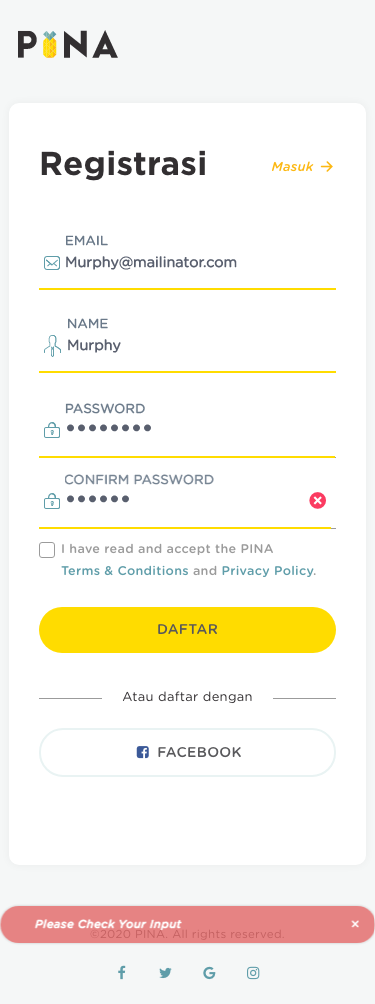
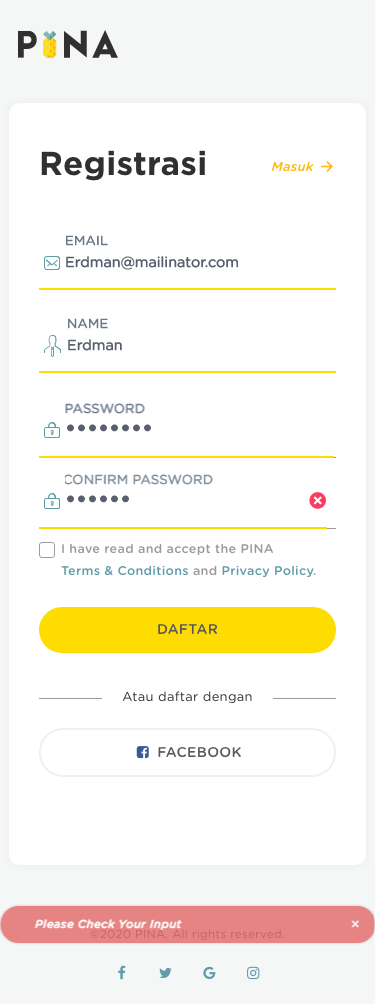
update

diff --git a/Renders/jest-stare/index.html b/Renders/jest-stare/index.html
@@ -142,18 +142,18 @@
     &quot;unmatched&quot;: 0,
     &quot;updated&quot;: 0
   },
-  &quot;startTime&quot;: 1578887352170,
+  &quot;startTime&quot;: 1579845051865,
   &quot;success&quot;: false,
   &quot;testResults&quot;: [
     {
-      &quot;failureMessage&quot;: &quot;\u001b[1m\u001b[31m  \u001b[1m● \u001b[1mUnit register › email with wrong format\u001b[39m\u001b[22m\n\n    \u001b[2mexpect(\u001b[22m\u001b[31mreceived\u001b[39m\u001b[2m).\u001b[22mtoMatch\u001b[2m(\u001b[22m\u001b[32mexpected\u001b[39m\u001b[2m)\u001b[22m\n\n    Expected substring: \u001b[32m\&quot;Register | PINA\&quot;\u001b[39m\n    Received string:    \u001b[31m\&quot;Login | PINA\&quot;\u001b[39m\n\u001b[2m\u001b[22m\n\u001b[2m    \u001b[0m \u001b[90m 87 | \u001b[39m      \u001b[0m\u001b[22m\n\u001b[2m    \u001b[0m \u001b[90m 88 | \u001b[39m        pageTitle \u001b[33m&#x3D;\u001b[39m await page\u001b[33m.\u001b[39mtitle()\u001b[33m;\u001b[39m\u001b[0m\u001b[22m\n\u001b[2m    \u001b[0m\u001b[31m\u001b[1m&gt;\u001b[2m\u001b[39m\u001b[90m 89 | \u001b[39m        await expect(pageTitle)\u001b[33m.\u001b[39mtoMatch(\u001b[32m&#39;Register | PINA&#39;\u001b[39m)\u001b[0m\u001b[22m\n\u001b[2m    \u001b[0m \u001b[90m    | \u001b[39m                                \u001b[31m\u001b[1m^\u001b[2m\u001b[39m\u001b[0m\u001b[22m\n\u001b[2m    \u001b[0m \u001b[90m 90 | \u001b[39m    }\u001b[33m,\u001b[39m\u001b[35m90000\u001b[39m)\u001b[0m\u001b[22m\n\u001b[2m    \u001b[0m \u001b[90m 91 | \u001b[39m\u001b[0m\u001b[22m\n\u001b[2m    \u001b[0m \u001b[90m 92 | \u001b[39m    test(\u001b[32m&#39;register without checklist TnC&#39;\u001b[39m\u001b[33m,\u001b[39m async() \u001b[33m&#x3D;&gt;\u001b[39m {\u001b[0m\u001b[22m\n\u001b[2m\u001b[22m\n\u001b[2m      \u001b[2mat Object.test (\u001b[2m\u001b[0m\u001b[36mtest&#x2F;pinaa&#x2F;e2e&#x2F;e2e.test.js\u001b[39m\u001b[0m\u001b[2m:89:33)\u001b[2m\u001b[22m\n\n\u001b[1m\u001b[31m  \u001b[1m● \u001b[1mUnit register › register without checklist TnC\u001b[39m\u001b[22m\n\n    \u001b[2mexpect(\u001b[22m\u001b[31mreceived\u001b[39m\u001b[2m).\u001b[22mtoMatch\u001b[2m(\u001b[22m\u001b[32mexpected\u001b[39m\u001b[2m)\u001b[22m\n\n    Expected substring: \u001b[32m\&quot;Register | PINA\&quot;\u001b[39m\n    Received string:    \u001b[31m\&quot;Login | PINA\&quot;\u001b[39m\n\u001b[2m\u001b[22m\n\u001b[2m    \u001b[0m \u001b[90m 108 | \u001b[39m  \u001b[0m\u001b[22m\n\u001b[2m    \u001b[0m \u001b[90m 109 | \u001b[39m        pageTitle \u001b[33m&#x3D;\u001b[39m await page\u001b[33m.\u001b[39mtitle()\u001b[33m;\u001b[39m\u001b[0m\u001b[22m\n\u001b[2m    \u001b[0m\u001b[31m\u001b[1m&gt;\u001b[2m\u001b[39m\u001b[90m 110 | \u001b[39m        await expect(pageTitle)\u001b[33m.\u001b[39mtoMatch(\u001b[32m&#39;Register | PINA&#39;\u001b[39m)\u001b[0m\u001b[22m\n\u001b[2m    \u001b[0m \u001b[90m     | \u001b[39m                                \u001b[31m\u001b[1m^\u001b[2m\u001b[39m\u001b[0m\u001b[22m\n\u001b[2m    \u001b[0m \u001b[90m 111 | \u001b[39m    }\u001b[33m,\u001b[39m\u001b[35m90000\u001b[39m)\u001b[0m\u001b[22m\n\u001b[2m    \u001b[0m \u001b[90m 112 | \u001b[39m\u001b[0m\u001b[22m\n\u001b[2m    \u001b[0m \u001b[90m 113 | \u001b[39m    test(\u001b[32m&#39;register with different confirm password&#39;\u001b[39m\u001b[33m,\u001b[39m async() \u001b[33m&#x3D;&gt;\u001b[39m {\u001b[0m\u001b[22m\n\u001b[2m\u001b[22m\n\u001b[2m      \u001b[2mat Object.test (\u001b[2m\u001b[0m\u001b[36mtest&#x2F;pinaa&#x2F;e2e&#x2F;e2e.test.js\u001b[39m\u001b[0m\u001b[2m:110:33)\u001b[2m\u001b[22m\n\n\u001b[1m\u001b[31m  \u001b[1m● \u001b[1mUnit register › register with different confirm password\u001b[39m\u001b[22m\n\n    \u001b[2mexpect(\u001b[22m\u001b[31mreceived\u001b[39m\u001b[2m).\u001b[22mtoMatch\u001b[2m(\u001b[22m\u001b[32mexpected\u001b[39m\u001b[2m)\u001b[22m\n\n    Expected substring: \u001b[32m\&quot;Register | PINA\&quot;\u001b[39m\n    Received string:    \u001b[31m\&quot;Login | PINA\&quot;\u001b[39m\n\u001b[2m\u001b[22m\n\u001b[2m    \u001b[0m \u001b[90m 129 | \u001b[39m       \u001b[0m\u001b[22m\n\u001b[2m    \u001b[0m \u001b[90m 130 | \u001b[39m        pageTitle \u001b[33m&#x3D;\u001b[39m await page\u001b[33m.\u001b[39mtitle()\u001b[33m;\u001b[39m\u001b[0m\u001b[22m\n\u001b[2m    \u001b[0m\u001b[31m\u001b[1m&gt;\u001b[2m\u001b[39m\u001b[90m 131 | \u001b[39m        await expect(pageTitle)\u001b[33m.\u001b[39mtoMatch(\u001b[32m&#39;Register | PINA&#39;\u001b[39m)\u001b[0m\u001b[22m\n\u001b[2m    \u001b[0m \u001b[90m     | \u001b[39m                                \u001b[31m\u001b[1m^\u001b[2m\u001b[39m\u001b[0m\u001b[22m\n\u001b[2m    \u001b[0m \u001b[90m 132 | \u001b[39m    }\u001b[33m,\u001b[39m\u001b[35m90000\u001b[39m)\u001b[0m\u001b[22m\n\u001b[2m    \u001b[0m \u001b[90m 133 | \u001b[39m\u001b[0m\u001b[22m\n\u001b[2m    \u001b[0m \u001b[90m 134 | \u001b[39m    test(\u001b[32m&#39;register without fill the form fields&#39;\u001b[39m\u001b[33m,\u001b[39m async() \u001b[33m&#x3D;&gt;\u001b[39m {\u001b[0m\u001b[22m\n\u001b[2m\u001b[22m\n\u001b[2m      \u001b[2mat Object.test (\u001b[2m\u001b[0m\u001b[36mtest&#x2F;pinaa&#x2F;e2e&#x2F;e2e.test.js\u001b[39m\u001b[0m\u001b[2m:131:33)\u001b[2m\u001b[22m\n\n\u001b[1m\u001b[31m  \u001b[1m● \u001b[1mUnit register › register without fill the form fields\u001b[39m\u001b[22m\n\n    \u001b[2mexpect(\u001b[22m\u001b[31mreceived\u001b[39m\u001b[2m).\u001b[22mtoMatch\u001b[2m(\u001b[22m\u001b[32mexpected\u001b[39m\u001b[2m)\u001b[22m\n\n    Expected substring: \u001b[32m\&quot;Register | PINA\&quot;\u001b[39m\n    Received string:    \u001b[31m\&quot;Login | PINA\&quot;\u001b[39m\n\u001b[2m\u001b[22m\n\u001b[2m    \u001b[0m \u001b[90m 146 | \u001b[39m     \u001b[0m\u001b[22m\n\u001b[2m    \u001b[0m \u001b[90m 147 | \u001b[39m        pageTitle \u001b[33m&#x3D;\u001b[39m await page\u001b[33m.\u001b[39mtitle()\u001b[33m;\u001b[39m\u001b[0m\u001b[22m\n\u001b[2m    \u001b[0m\u001b[31m\u001b[1m&gt;\u001b[2m\u001b[39m\u001b[90m 148 | \u001b[39m        await expect(pageTitle)\u001b[33m.\u001b[39mtoMatch(\u001b[32m&#39;Register | PINA&#39;\u001b[39m)\u001b[0m\u001b[22m\n\u001b[2m    \u001b[0m \u001b[90m     | \u001b[39m                                \u001b[31m\u001b[1m^\u001b[2m\u001b[39m\u001b[0m\u001b[22m\n\u001b[2m    \u001b[0m \u001b[90m 149 | \u001b[39m    }\u001b[33m,\u001b[39m\u001b[35m90000\u001b[39m)\u001b[0m\u001b[22m\n\u001b[2m    \u001b[0m \u001b[90m 150 | \u001b[39m\u001b[0m\u001b[22m\n\u001b[2m    \u001b[0m \u001b[90m 151 | \u001b[39m    test(\u001b[32m&#39;duplicate the register&#39;\u001b[39m\u001b[33m,\u001b[39m async() \u001b[33m&#x3D;&gt;\u001b[39m {  \u001b[0m\u001b[22m\n\u001b[2m\u001b[22m\n\u001b[2m      \u001b[2mat Object.test (\u001b[2m\u001b[0m\u001b[36mtest&#x2F;pinaa&#x2F;e2e&#x2F;e2e.test.js\u001b[39m\u001b[0m\u001b[2m:148:33)\u001b[2m\u001b[22m\n\n\u001b[1m\u001b[31m  \u001b[1m● \u001b[1mUnit register › duplicate the register\u001b[39m\u001b[22m\n\n    \u001b[2mexpect(\u001b[22m\u001b[31mreceived\u001b[39m\u001b[2m).\u001b[22mtoMatch\u001b[2m(\u001b[22m\u001b[32mexpected\u001b[39m\u001b[2m)\u001b[22m\n\n    Expected substring: \u001b[32m\&quot;Registrasi | PINA\&quot;\u001b[39m\n    Received string:    \u001b[31m\&quot;Login | PINA\&quot;\u001b[39m\n\u001b[2m\u001b[22m\n\u001b[2m    \u001b[0m \u001b[90m 167 | \u001b[39m        })\u001b[0m\u001b[22m\n\u001b[2m    \u001b[0m \u001b[90m 168 | \u001b[39m        pageTitle \u001b[33m&#x3D;\u001b[39m await page\u001b[33m.\u001b[39mtitle()\u001b[33m;\u001b[39m\u001b[0m\u001b[22m\n\u001b[2m    \u001b[0m\u001b[31m\u001b[1m&gt;\u001b[2m\u001b[39m\u001b[90m 169 | \u001b[39m        await expect(pageTitle)\u001b[33m.\u001b[39mtoMatch(\u001b[32m&#39;Registrasi | PINA&#39;\u001b[39m)\u001b[0m\u001b[22m\n\u001b[2m    \u001b[0m \u001b[90m     | \u001b[39m                                \u001b[31m\u001b[1m^\u001b[2m\u001b[39m\u001b[0m\u001b[22m\n\u001b[2m    \u001b[0m \u001b[90m 170 | \u001b[39m    }\u001b[33m,\u001b[39m\u001b[35m90000\u001b[39m)\u001b[0m\u001b[22m\n\u001b[2m    \u001b[0m \u001b[90m 171 | \u001b[39m\u001b[0m\u001b[22m\n\u001b[2m    \u001b[0m \u001b[90m 172 | \u001b[39m    test(\u001b[32m&#39;login success&#39;\u001b[39m\u001b[33m,\u001b[39m async() \u001b[33m&#x3D;&gt;\u001b[39m {\u001b[0m\u001b[22m\n\u001b[2m\u001b[22m\n\u001b[2m      \u001b[2mat Object.test (\u001b[2m\u001b[0m\u001b[36mtest&#x2F;pinaa&#x2F;e2e&#x2F;e2e.test.js\u001b[39m\u001b[0m\u001b[2m:169:33)\u001b[2m\u001b[22m\n&quot;,
+      &quot;failureMessage&quot;: &quot;\u001b[1m\u001b[31m  \u001b[1m● \u001b[1mUnit register › email with wrong format\u001b[39m\u001b[22m\n\n    \u001b[2mexpect(\u001b[22m\u001b[31mreceived\u001b[39m\u001b[2m).\u001b[22mtoMatch\u001b[2m(\u001b[22m\u001b[32mexpected\u001b[39m\u001b[2m)\u001b[22m\n\n    Expected substring: \u001b[32m\&quot;Register | PINA\&quot;\u001b[39m\n    Received string:    \u001b[31m\&quot;Login | PINA\&quot;\u001b[39m\n\u001b[2m\u001b[22m\n\u001b[2m    \u001b[0m \u001b[90m 88 | \u001b[39m      \u001b[0m\u001b[22m\n\u001b[2m    \u001b[0m \u001b[90m 89 | \u001b[39m        pageTitle \u001b[33m&#x3D;\u001b[39m await page\u001b[33m.\u001b[39mtitle()\u001b[33m;\u001b[39m\u001b[0m\u001b[22m\n\u001b[2m    \u001b[0m\u001b[31m\u001b[1m&gt;\u001b[2m\u001b[39m\u001b[90m 90 | \u001b[39m        await expect(pageTitle)\u001b[33m.\u001b[39mtoMatch(\u001b[32m&#39;Register | PINA&#39;\u001b[39m)\u001b[0m\u001b[22m\n\u001b[2m    \u001b[0m \u001b[90m    | \u001b[39m                                \u001b[31m\u001b[1m^\u001b[2m\u001b[39m\u001b[0m\u001b[22m\n\u001b[2m    \u001b[0m \u001b[90m 91 | \u001b[39m    }\u001b[33m,\u001b[39m\u001b[35m90000\u001b[39m)\u001b[0m\u001b[22m\n\u001b[2m    \u001b[0m \u001b[90m 92 | \u001b[39m\u001b[0m\u001b[22m\n\u001b[2m    \u001b[0m \u001b[90m 93 | \u001b[39m    test(\u001b[32m&#39;register without checklist TnC&#39;\u001b[39m\u001b[33m,\u001b[39m async() \u001b[33m&#x3D;&gt;\u001b[39m {\u001b[0m\u001b[22m\n\u001b[2m\u001b[22m\n\u001b[2m      \u001b[2mat Object.test (\u001b[2m\u001b[0m\u001b[36mtest&#x2F;pinaa&#x2F;e2e&#x2F;e2e.test.js\u001b[39m\u001b[0m\u001b[2m:90:33)\u001b[2m\u001b[22m\n\n\u001b[1m\u001b[31m  \u001b[1m● \u001b[1mUnit register › register without checklist TnC\u001b[39m\u001b[22m\n\n    \u001b[2mexpect(\u001b[22m\u001b[31mreceived\u001b[39m\u001b[2m).\u001b[22mtoMatch\u001b[2m(\u001b[22m\u001b[32mexpected\u001b[39m\u001b[2m)\u001b[22m\n\n    Expected substring: \u001b[32m\&quot;Register | PINA\&quot;\u001b[39m\n    Received string:    \u001b[31m\&quot;Login | PINA\&quot;\u001b[39m\n\u001b[2m\u001b[22m\n\u001b[2m    \u001b[0m \u001b[90m 109 | \u001b[39m  \u001b[0m\u001b[22m\n\u001b[2m    \u001b[0m \u001b[90m 110 | \u001b[39m        pageTitle \u001b[33m&#x3D;\u001b[39m await page\u001b[33m.\u001b[39mtitle()\u001b[33m;\u001b[39m\u001b[0m\u001b[22m\n\u001b[2m    \u001b[0m\u001b[31m\u001b[1m&gt;\u001b[2m\u001b[39m\u001b[90m 111 | \u001b[39m        await expect(pageTitle)\u001b[33m.\u001b[39mtoMatch(\u001b[32m&#39;Register | PINA&#39;\u001b[39m)\u001b[0m\u001b[22m\n\u001b[2m    \u001b[0m \u001b[90m     | \u001b[39m                                \u001b[31m\u001b[1m^\u001b[2m\u001b[39m\u001b[0m\u001b[22m\n\u001b[2m    \u001b[0m \u001b[90m 112 | \u001b[39m    }\u001b[33m,\u001b[39m\u001b[35m90000\u001b[39m)\u001b[0m\u001b[22m\n\u001b[2m    \u001b[0m \u001b[90m 113 | \u001b[39m\u001b[0m\u001b[22m\n\u001b[2m    \u001b[0m \u001b[90m 114 | \u001b[39m    test(\u001b[32m&#39;register with different confirm password&#39;\u001b[39m\u001b[33m,\u001b[39m async() \u001b[33m&#x3D;&gt;\u001b[39m {\u001b[0m\u001b[22m\n\u001b[2m\u001b[22m\n\u001b[2m      \u001b[2mat Object.test (\u001b[2m\u001b[0m\u001b[36mtest&#x2F;pinaa&#x2F;e2e&#x2F;e2e.test.js\u001b[39m\u001b[0m\u001b[2m:111:33)\u001b[2m\u001b[22m\n\n\u001b[1m\u001b[31m  \u001b[1m● \u001b[1mUnit register › register with different confirm password\u001b[39m\u001b[22m\n\n    \u001b[2mexpect(\u001b[22m\u001b[31mreceived\u001b[39m\u001b[2m).\u001b[22mtoMatch\u001b[2m(\u001b[22m\u001b[32mexpected\u001b[39m\u001b[2m)\u001b[22m\n\n    Expected substring: \u001b[32m\&quot;Register | PINA\&quot;\u001b[39m\n    Received string:    \u001b[31m\&quot;Login | PINA\&quot;\u001b[39m\n\u001b[2m\u001b[22m\n\u001b[2m    \u001b[0m \u001b[90m 130 | \u001b[39m       \u001b[0m\u001b[22m\n\u001b[2m    \u001b[0m \u001b[90m 131 | \u001b[39m        pageTitle \u001b[33m&#x3D;\u001b[39m await page\u001b[33m.\u001b[39mtitle()\u001b[33m;\u001b[39m\u001b[0m\u001b[22m\n\u001b[2m    \u001b[0m\u001b[31m\u001b[1m&gt;\u001b[2m\u001b[39m\u001b[90m 132 | \u001b[39m        await expect(pageTitle)\u001b[33m.\u001b[39mtoMatch(\u001b[32m&#39;Register | PINA&#39;\u001b[39m)\u001b[0m\u001b[22m\n\u001b[2m    \u001b[0m \u001b[90m     | \u001b[39m                                \u001b[31m\u001b[1m^\u001b[2m\u001b[39m\u001b[0m\u001b[22m\n\u001b[2m    \u001b[0m \u001b[90m 133 | \u001b[39m    }\u001b[33m,\u001b[39m\u001b[35m90000\u001b[39m)\u001b[0m\u001b[22m\n\u001b[2m    \u001b[0m \u001b[90m 134 | \u001b[39m\u001b[0m\u001b[22m\n\u001b[2m    \u001b[0m \u001b[90m 135 | \u001b[39m    test(\u001b[32m&#39;register without fill the form fields&#39;\u001b[39m\u001b[33m,\u001b[39m async() \u001b[33m&#x3D;&gt;\u001b[39m {\u001b[0m\u001b[22m\n\u001b[2m\u001b[22m\n\u001b[2m      \u001b[2mat Object.test (\u001b[2m\u001b[0m\u001b[36mtest&#x2F;pinaa&#x2F;e2e&#x2F;e2e.test.js\u001b[39m\u001b[0m\u001b[2m:132:33)\u001b[2m\u001b[22m\n\n\u001b[1m\u001b[31m  \u001b[1m● \u001b[1mUnit register › register without fill the form fields\u001b[39m\u001b[22m\n\n    \u001b[2mexpect(\u001b[22m\u001b[31mreceived\u001b[39m\u001b[2m).\u001b[22mtoMatch\u001b[2m(\u001b[22m\u001b[32mexpected\u001b[39m\u001b[2m)\u001b[22m\n\n    Expected substring: \u001b[32m\&quot;Register | PINA\&quot;\u001b[39m\n    Received string:    \u001b[31m\&quot;Login | PINA\&quot;\u001b[39m\n\u001b[2m\u001b[22m\n\u001b[2m    \u001b[0m \u001b[90m 147 | \u001b[39m     \u001b[0m\u001b[22m\n\u001b[2m    \u001b[0m \u001b[90m 148 | \u001b[39m        pageTitle \u001b[33m&#x3D;\u001b[39m await page\u001b[33m.\u001b[39mtitle()\u001b[33m;\u001b[39m\u001b[0m\u001b[22m\n\u001b[2m    \u001b[0m\u001b[31m\u001b[1m&gt;\u001b[2m\u001b[39m\u001b[90m 149 | \u001b[39m        await expect(pageTitle)\u001b[33m.\u001b[39mtoMatch(\u001b[32m&#39;Register | PINA&#39;\u001b[39m)\u001b[0m\u001b[22m\n\u001b[2m    \u001b[0m \u001b[90m     | \u001b[39m                                \u001b[31m\u001b[1m^\u001b[2m\u001b[39m\u001b[0m\u001b[22m\n\u001b[2m    \u001b[0m \u001b[90m 150 | \u001b[39m    }\u001b[33m,\u001b[39m\u001b[35m90000\u001b[39m)\u001b[0m\u001b[22m\n\u001b[2m    \u001b[0m \u001b[90m 151 | \u001b[39m\u001b[0m\u001b[22m\n\u001b[2m    \u001b[0m \u001b[90m 152 | \u001b[39m    test(\u001b[32m&#39;duplicate the register&#39;\u001b[39m\u001b[33m,\u001b[39m async() \u001b[33m&#x3D;&gt;\u001b[39m {  \u001b[0m\u001b[22m\n\u001b[2m\u001b[22m\n\u001b[2m      \u001b[2mat Object.test (\u001b[2m\u001b[0m\u001b[36mtest&#x2F;pinaa&#x2F;e2e&#x2F;e2e.test.js\u001b[39m\u001b[0m\u001b[2m:149:33)\u001b[2m\u001b[22m\n\n\u001b[1m\u001b[31m  \u001b[1m● \u001b[1mUnit register › duplicate the register\u001b[39m\u001b[22m\n\n    \u001b[2mexpect(\u001b[22m\u001b[31mreceived\u001b[39m\u001b[2m).\u001b[22mtoMatch\u001b[2m(\u001b[22m\u001b[32mexpected\u001b[39m\u001b[2m)\u001b[22m\n\n    Expected substring: \u001b[32m\&quot;Registrasi | PINA\&quot;\u001b[39m\n    Received string:    \u001b[31m\&quot;Login | PINA\&quot;\u001b[39m\n\u001b[2m\u001b[22m\n\u001b[2m    \u001b[0m \u001b[90m 168 | \u001b[39m        })\u001b[0m\u001b[22m\n\u001b[2m    \u001b[0m \u001b[90m 169 | \u001b[39m        pageTitle \u001b[33m&#x3D;\u001b[39m await page\u001b[33m.\u001b[39mtitle()\u001b[33m;\u001b[39m\u001b[0m\u001b[22m\n\u001b[2m    \u001b[0m\u001b[31m\u001b[1m&gt;\u001b[2m\u001b[39m\u001b[90m 170 | \u001b[39m        await expect(pageTitle)\u001b[33m.\u001b[39mtoMatch(\u001b[32m&#39;Registrasi | PINA&#39;\u001b[39m)\u001b[0m\u001b[22m\n\u001b[2m    \u001b[0m \u001b[90m     | \u001b[39m                                \u001b[31m\u001b[1m^\u001b[2m\u001b[39m\u001b[0m\u001b[22m\n\u001b[2m    \u001b[0m \u001b[90m 171 | \u001b[39m    }\u001b[33m,\u001b[39m\u001b[35m90000\u001b[39m)\u001b[0m\u001b[22m\n\u001b[2m    \u001b[0m \u001b[90m 172 | \u001b[39m\u001b[0m\u001b[22m\n\u001b[2m    \u001b[0m \u001b[90m 173 | \u001b[39m    test(\u001b[32m&#39;login success&#39;\u001b[39m\u001b[33m,\u001b[39m async() \u001b[33m&#x3D;&gt;\u001b[39m {\u001b[0m\u001b[22m\n\u001b[2m\u001b[22m\n\u001b[2m      \u001b[2mat Object.test (\u001b[2m\u001b[0m\u001b[36mtest&#x2F;pinaa&#x2F;e2e&#x2F;e2e.test.js\u001b[39m\u001b[0m\u001b[2m:170:33)\u001b[2m\u001b[22m\n&quot;,
       &quot;numFailingTests&quot;: 5,
       &quot;numPassingTests&quot;: 4,
       &quot;numPendingTests&quot;: 0,
       &quot;numTodoTests&quot;: 0,
       &quot;perfStats&quot;: {
-        &quot;end&quot;: 1578887409828,
-        &quot;start&quot;: 1578887355001
+        &quot;end&quot;: 1579845158371,
+        &quot;start&quot;: 1579845056206
       },
       &quot;snapshot&quot;: {
         &quot;added&quot;: 0,
@@ -170,7 +170,7 @@
           &quot;ancestorTitles&quot;: [
             &quot;Unit register&quot;
           ],
-          &quot;duration&quot;: 3615,
+          &quot;duration&quot;: 11734,
           &quot;failureMessages&quot;: [],
           &quot;fullName&quot;: &quot;Unit register register success&quot;,
           &quot;location&quot;: null,
@@ -182,9 +182,9 @@
           &quot;ancestorTitles&quot;: [
             &quot;Unit register&quot;
           ],
-          &quot;duration&quot;: 2337,
+          &quot;duration&quot;: 6411,
           &quot;failureMessages&quot;: [
-            &quot;Error: \u001b[2mexpect(\u001b[22m\u001b[31mreceived\u001b[39m\u001b[2m).\u001b[22mtoMatch\u001b[2m(\u001b[22m\u001b[32mexpected\u001b[39m\u001b[2m)\u001b[22m\n\nExpected substring: \u001b[32m\&quot;Register | PINA\&quot;\u001b[39m\nReceived string:    \u001b[31m\&quot;Login | PINA\&quot;\u001b[39m\n    at Object.test (&#x2F;Users&#x2F;fajri&#x2F;Documents&#x2F;auto&#x2F;ppt&#x2F;test&#x2F;pinaa&#x2F;e2e&#x2F;e2e.test.js:89:33)\n    at process._tickCallback (internal&#x2F;process&#x2F;next_tick.js:68:7)&quot;
+            &quot;Error: \u001b[2mexpect(\u001b[22m\u001b[31mreceived\u001b[39m\u001b[2m).\u001b[22mtoMatch\u001b[2m(\u001b[22m\u001b[32mexpected\u001b[39m\u001b[2m)\u001b[22m\n\nExpected substring: \u001b[32m\&quot;Register | PINA\&quot;\u001b[39m\nReceived string:    \u001b[31m\&quot;Login | PINA\&quot;\u001b[39m\n    at Object.test (&#x2F;Users&#x2F;fajri&#x2F;Documents&#x2F;auto&#x2F;ppt&#x2F;test&#x2F;pinaa&#x2F;e2e&#x2F;e2e.test.js:90:33)\n    at process._tickCallback (internal&#x2F;process&#x2F;next_tick.js:68:7)&quot;
           ],
           &quot;fullName&quot;: &quot;Unit register email with wrong format&quot;,
           &quot;location&quot;: null,
@@ -196,9 +196,9 @@
           &quot;ancestorTitles&quot;: [
             &quot;Unit register&quot;
           ],
-          &quot;duration&quot;: 3299,
+          &quot;duration&quot;: 7328,
           &quot;failureMessages&quot;: [
-            &quot;Error: \u001b[2mexpect(\u001b[22m\u001b[31mreceived\u001b[39m\u001b[2m).\u001b[22mtoMatch\u001b[2m(\u001b[22m\u001b[32mexpected\u001b[39m\u001b[2m)\u001b[22m\n\nExpected substring: \u001b[32m\&quot;Register | PINA\&quot;\u001b[39m\nReceived string:    \u001b[31m\&quot;Login | PINA\&quot;\u001b[39m\n    at Object.test (&#x2F;Users&#x2F;fajri&#x2F;Documents&#x2F;auto&#x2F;ppt&#x2F;test&#x2F;pinaa&#x2F;e2e&#x2F;e2e.test.js:110:33)\n    at process._tickCallback (internal&#x2F;process&#x2F;next_tick.js:68:7)&quot;
+            &quot;Error: \u001b[2mexpect(\u001b[22m\u001b[31mreceived\u001b[39m\u001b[2m).\u001b[22mtoMatch\u001b[2m(\u001b[22m\u001b[32mexpected\u001b[39m\u001b[2m)\u001b[22m\n\nExpected substring: \u001b[32m\&quot;Register | PINA\&quot;\u001b[39m\nReceived string:    \u001b[31m\&quot;Login | PINA\&quot;\u001b[39m\n    at Object.test (&#x2F;Users&#x2F;fajri&#x2F;Documents&#x2F;auto&#x2F;ppt&#x2F;test&#x2F;pinaa&#x2F;e2e&#x2F;e2e.test.js:111:33)\n    at process._tickCallback (internal&#x2F;process&#x2F;next_tick.js:68:7)&quot;
           ],
           &quot;fullName&quot;: &quot;Unit register register without checklist TnC&quot;,
           &quot;location&quot;: null,
@@ -210,9 +210,9 @@
           &quot;ancestorTitles&quot;: [
             &quot;Unit register&quot;
           ],
-          &quot;duration&quot;: 3282,
+          &quot;duration&quot;: 8043,
           &quot;failureMessages&quot;: [
-            &quot;Error: \u001b[2mexpect(\u001b[22m\u001b[31mreceived\u001b[39m\u001b[2m).\u001b[22mtoMatch\u001b[2m(\u001b[22m\u001b[32mexpected\u001b[39m\u001b[2m)\u001b[22m\n\nExpected substring: \u001b[32m\&quot;Register | PINA\&quot;\u001b[39m\nReceived string:    \u001b[31m\&quot;Login | PINA\&quot;\u001b[39m\n    at Object.test (&#x2F;Users&#x2F;fajri&#x2F;Documents&#x2F;auto&#x2F;ppt&#x2F;test&#x2F;pinaa&#x2F;e2e&#x2F;e2e.test.js:131:33)\n    at process._tickCallback (internal&#x2F;process&#x2F;next_tick.js:68:7)&quot;
+            &quot;Error: \u001b[2mexpect(\u001b[22m\u001b[31mreceived\u001b[39m\u001b[2m).\u001b[22mtoMatch\u001b[2m(\u001b[22m\u001b[32mexpected\u001b[39m\u001b[2m)\u001b[22m\n\nExpected substring: \u001b[32m\&quot;Register | PINA\&quot;\u001b[39m\nReceived string:    \u001b[31m\&quot;Login | PINA\&quot;\u001b[39m\n    at Object.test (&#x2F;Users&#x2F;fajri&#x2F;Documents&#x2F;auto&#x2F;ppt&#x2F;test&#x2F;pinaa&#x2F;e2e&#x2F;e2e.test.js:132:33)\n    at process._tickCallback (internal&#x2F;process&#x2F;next_tick.js:68:7)&quot;
           ],
           &quot;fullName&quot;: &quot;Unit register register with different confirm password&quot;,
           &quot;location&quot;: null,
@@ -224,9 +224,9 @@
           &quot;ancestorTitles&quot;: [
             &quot;Unit register&quot;
           ],
-          &quot;duration&quot;: 2881,
+          &quot;duration&quot;: 8497,
           &quot;failureMessages&quot;: [
-            &quot;Error: \u001b[2mexpect(\u001b[22m\u001b[31mreceived\u001b[39m\u001b[2m).\u001b[22mtoMatch\u001b[2m(\u001b[22m\u001b[32mexpected\u001b[39m\u001b[2m)\u001b[22m\n\nExpected substring: \u001b[32m\&quot;Register | PINA\&quot;\u001b[39m\nReceived string:    \u001b[31m\&quot;Login | PINA\&quot;\u001b[39m\n    at Object.test (&#x2F;Users&#x2F;fajri&#x2F;Documents&#x2F;auto&#x2F;ppt&#x2F;test&#x2F;pinaa&#x2F;e2e&#x2F;e2e.test.js:148:33)\n    at process._tickCallback (internal&#x2F;process&#x2F;next_tick.js:68:7)&quot;
+            &quot;Error: \u001b[2mexpect(\u001b[22m\u001b[31mreceived\u001b[39m\u001b[2m).\u001b[22mtoMatch\u001b[2m(\u001b[22m\u001b[32mexpected\u001b[39m\u001b[2m)\u001b[22m\n\nExpected substring: \u001b[32m\&quot;Register | PINA\&quot;\u001b[39m\nReceived string:    \u001b[31m\&quot;Login | PINA\&quot;\u001b[39m\n    at Object.test (&#x2F;Users&#x2F;fajri&#x2F;Documents&#x2F;auto&#x2F;ppt&#x2F;test&#x2F;pinaa&#x2F;e2e&#x2F;e2e.test.js:149:33)\n    at process._tickCallback (internal&#x2F;process&#x2F;next_tick.js:68:7)&quot;
           ],
           &quot;fullName&quot;: &quot;Unit register register without fill the form fields&quot;,
           &quot;location&quot;: null,
@@ -238,9 +238,9 @@
           &quot;ancestorTitles&quot;: [
             &quot;Unit register&quot;
           ],
-          &quot;duration&quot;: 4702,
+          &quot;duration&quot;: 7571,
           &quot;failureMessages&quot;: [
-            &quot;Error: \u001b[2mexpect(\u001b[22m\u001b[31mreceived\u001b[39m\u001b[2m).\u001b[22mtoMatch\u001b[2m(\u001b[22m\u001b[32mexpected\u001b[39m\u001b[2m)\u001b[22m\n\nExpected substring: \u001b[32m\&quot;Registrasi | PINA\&quot;\u001b[39m\nReceived string:    \u001b[31m\&quot;Login | PINA\&quot;\u001b[39m\n    at Object.test (&#x2F;Users&#x2F;fajri&#x2F;Documents&#x2F;auto&#x2F;ppt&#x2F;test&#x2F;pinaa&#x2F;e2e&#x2F;e2e.test.js:169:33)\n    at process._tickCallback (internal&#x2F;process&#x2F;next_tick.js:68:7)&quot;
+            &quot;Error: \u001b[2mexpect(\u001b[22m\u001b[31mreceived\u001b[39m\u001b[2m).\u001b[22mtoMatch\u001b[2m(\u001b[22m\u001b[32mexpected\u001b[39m\u001b[2m)\u001b[22m\n\nExpected substring: \u001b[32m\&quot;Registrasi | PINA\&quot;\u001b[39m\nReceived string:    \u001b[31m\&quot;Login | PINA\&quot;\u001b[39m\n    at Object.test (&#x2F;Users&#x2F;fajri&#x2F;Documents&#x2F;auto&#x2F;ppt&#x2F;test&#x2F;pinaa&#x2F;e2e&#x2F;e2e.test.js:170:33)\n    at process._tickCallback (internal&#x2F;process&#x2F;next_tick.js:68:7)&quot;
           ],
           &quot;fullName&quot;: &quot;Unit register duplicate the register&quot;,
           &quot;location&quot;: null,
@@ -252,7 +252,7 @@
           &quot;ancestorTitles&quot;: [
             &quot;Unit register&quot;
           ],
-          &quot;duration&quot;: 8560,
+          &quot;duration&quot;: 14051,
           &quot;failureMessages&quot;: [],
           &quot;fullName&quot;: &quot;Unit register login success&quot;,
           &quot;location&quot;: null,
@@ -264,7 +264,7 @@
           &quot;ancestorTitles&quot;: [
             &quot;Unit register&quot;
           ],
-          &quot;duration&quot;: 6673,
+          &quot;duration&quot;: 7825,
           &quot;failureMessages&quot;: [],
           &quot;fullName&quot;: &quot;Unit register go to profile based on cookie&quot;,
           &quot;location&quot;: null,
@@ -276,7 +276,7 @@
           &quot;ancestorTitles&quot;: [
             &quot;Unit register&quot;
           ],
-          &quot;duration&quot;: 14403,
+          &quot;duration&quot;: 14623,
           &quot;failureMessages&quot;: [],
           &quot;fullName&quot;: &quot;Unit register verify account with checklist npwp&quot;,
           &quot;location&quot;: null,

diff --git a/test/pinaa/e2e/e2e.test.js b/test/pinaa/e2e/e2e.test.js
@@ -2,7 +2,7 @@ let init = require('../../initialize')
 require('../../initialize').page
 
 
-let dir= path.join(__dirname,'../../../Renders/Unit/pinaa/'+resolusi)
+let dir= path.join(__dirname,'../../../Renders/Unit/pinaa/'+res_mobile)
 fs.readdir(dir, (err, files) => {
     for (const file of files) {
         fs.unlink(path.join(dir, file), err => {
@@ -23,10 +23,7 @@ beforeAll(async() => {
         username: 'grt' , 
         password:'pina2019' 
     });
-    await page.setViewport({
-        width: width,
-        height:  height
-    })
+    await page.setViewport({width: width_mobile,height:height_mobile})
     name = name
     email = email
     password = password
@@ -41,9 +38,9 @@ describe('Unit register',() => {
     test('register success', async() => {
         await page.goto('http://pinaapp.id/register',{waitUntil:'networkidle2'})
         await init.src_height().then(async (value)=>{
-            await page.setViewport({width: width,height : value})
+            await page.setViewport({width: width_mobile,height : value})
             await page.screenshot({
-                path: path.join(__dirname,'../../../Renders/Unit/pinaa/'+resolusi+'/get register-successfully.png'),
+                path: path.join(__dirname,'../../../Renders/Unit/pinaa/'+res_mobile+'/get register-successfully.png'),
                 fullpage: true
             })
         })
@@ -57,12 +54,16 @@ describe('Unit register',() => {
             'document.querySelector("body").innerText.includes("Forgot Password?")',{timeout: 25000}
         );
         await init.src_height().then(async (value)=>{
-            await page.setViewport({width: width,height : value})
+            await page.setViewport({width: width_mobile,height : value})
             await page.screenshot({
-                path: path.join(__dirname,'../../../Renders/Unit/pinaa/'+resolusi+'/post register-successfully.png'),
+                path: path.join(__dirname,'../../../Renders/Unit/pinaa/'+res_mobile+'/post register-successfully.png'),
                 fullpage: true
             })
         })
+        console.log('email'+' '+name+uniq+'@mailinator.com')
+        console.log('username'+' '+name+uniq)
+        console.log('password'+' '+password)
+
         pageTitle = await page.title();
         await expect(pageTitle).toMatch('Login | PINA')
     },90000)
@@ -78,9 +79,9 @@ describe('Unit register',() => {
         await page.click('input[id="cb"]')
         await page.click('a[class="button full"]')
         await init.src_height().then(async (value)=>{
-            await page.setViewport({width: width,height : value})
+            await page.setViewport({width: width_mobile,height : value})
             await page.screenshot({
-                path: path.join(__dirname,'../../../Renders/Unit/pinaa/'+resolusi+'/post register - wrong format email.png'),
+                path: path.join(__dirname,'../../../Renders/Unit/pinaa/'+res_mobile+'/post register - wrong format email.png'),
                 fullpage: true
             })
         })
@@ -99,9 +100,9 @@ describe('Unit register',() => {
         await page.type('input[name="confirm password"]',confirm_password)
         await page.click('a[class="button full"]')
         await init.src_height().then(async (value)=>{
-            await page.setViewport({width: width,height : value})
+            await page.setViewport({width: width_mobile,height : value})
             await page.screenshot({
-                path: path.join(__dirname,'../../../Renders/Unit/pinaa/'+resolusi+'/post register - tnc not checklisted.png'),
+                path: path.join(__dirname,'../../../Renders/Unit/pinaa/'+res_mobile+'/post register - tnc not checklisted.png'),
                 fullpage: true
             })
         })
@@ -120,9 +121,9 @@ describe('Unit register',() => {
         await page.type('input[name="confirm password"]','abc123')
         await page.click('a[class="button full"]')
         await init.src_height().then(async (value)=>{
-            await page.setViewport({width: width,height : value})
+            await page.setViewport({width: width_mobile,height : value})
             await page.screenshot({
-                path: path.join(__dirname,'../../../Renders/Unit/pinaa/'+resolusi+'/post register - without different confirm password.png'),
+                path: path.join(__dirname,'../../../Renders/Unit/pinaa/'+res_mobile+'/post register - without different confirm password.png'),
                 fullpage: true
             })
         })
@@ -137,9 +138,9 @@ describe('Unit register',() => {
         await page.goForward();
         await page.click('a[class="button full"]')   
         await init.src_height().then(async (value)=>{
-            await page.setViewport({width: width,height : value})
+            await page.setViewport({width: width_mobile,height : value})
             await page.screenshot({
-                path: path.join(__dirname,'../../../Renders/Unit/pinaa/'+resolusi+'/post register - without fill form fields.png'),
+                path: path.join(__dirname,'../../../Renders/Unit/pinaa/'+res_mobile+'/post register - without fill form fields.png'),
                 fullpage: true
             })
         })
@@ -152,16 +153,16 @@ describe('Unit register',() => {
         await page.goto('http://pinaapp.id/register',{waitUntil:'networkidle2'})
         await page.goBack();
         await page.goForward();
-        await page.type('input[name="email"]',name+'@mailinator.com')
-        await page.type('input[name="name"]',name)
+        await page.type('input[name="email"]',name+uniq+'@mailinator.com')
+        await page.type('input[name="name"]',name+uniq)
         await page.type('input[name="password"]',password)
         await page.type('input[name="confirm password"]',confirm_password)
         await page.click('input[id="cb"]')
         await page.click('a[class="button full"]')
         await init.src_height().then(async (value)=>{
-            await page.setViewport({width: width,height : value})
+            await page.setViewport({width: width_mobile,height : value})
             await page.screenshot({
-                path: path.join(__dirname,'../../../Renders/Unit/pinaa/'+resolusi+'/post register - duplicate register.png'),
+                path: path.join(__dirname,'../../../Renders/Unit/pinaa/'+res_mobile+'/post register - duplicate register.png'),
                 fullpage: true,
             })
         })
@@ -174,15 +175,15 @@ describe('Unit register',() => {
         await page.goBack();
         await page.goForward();
         await page.screenshot({
-            path: path.join(__dirname,'../../../Renders/Unit/pinaa/'+resolusi+'/get login-successfully.png'),
+            path: path.join(__dirname,'../../../Renders/Unit/pinaa/'+res_mobile+'/get login-successfully.png'),
             fullpage: true,
         })
         await page.type('input[name="email"]',name+'@mailinator.com')
         await page.type('input[name="password"]',password)
         await init.src_height().then(async (value)=>{
-            await page.setViewport({width: width,height : value})
+            await page.setViewport({width: width_mobile,height : value})
             await page.screenshot({
-                path: path.join(__dirname,'../../../Renders/Unit/pinaa/'+resolusi+'/get login-successfully[static].png'),
+                path: path.join(__dirname,'../../../Renders/Unit/pinaa/'+res_mobile+'/get login-successfully[static].png'),
                 fullpage: true
             })
         })
@@ -191,9 +192,9 @@ describe('Unit register',() => {
             await page.waitForSelector('a[class="button capitalize"]', {visible: true,timeout: 60000});
             await page.waitFor(3000)
             await init.src_height().then(async (value)=>{
-                await page.setViewport({width: width,height : value})
+                await page.setViewport({width: width_mobile,height : value})
                 await page.screenshot({
-                    path: path.join(__dirname,'../../../Renders/Unit/pinaa/'+resolusi+'/post login-successfully.png'),
+                    path: path.join(__dirname,'../../../Renders/Unit/pinaa/'+res_mobile+'/post login-successfully.png'),
                     fullpage: true
                 })
             })
@@ -201,9 +202,9 @@ describe('Unit register',() => {
         }
         catch(err) {
             await init.src_height().then(async (value)=>{
-                await page.setViewport({width: width,height : value})
+                await page.setViewport({width: width_mobile,height : value})
                 await page.screenshot({
-                    path: path.join(__dirname,'../../../Renders/Unit/pinaa/'+resolusi+'/post login-successfull error.png'),
+                    path: path.join(__dirname,'../../../Renders/Unit/pinaa/'+res_mobile+'/post login-successfull error.png'),
                     fullpage: true
                 })
             })
@@ -257,9 +258,9 @@ describe('Unit register',() => {
         await page.goto('http://pinaapp.id/dashboard',{waitUntil:'networkidle2'})
         await page.waitFor(3000)
         await init.src_height().then(async (value)=>{
-            await page.setViewport({width: width,height : value})
+            await page.setViewport({width: width_mobile,height : value})
             await page.screenshot({
-                path: path.join(__dirname,'../../../Renders/Unit/pinaa/'+resolusi+'/cookie always working.png'),
+                path: path.join(__dirname,'../../../Renders/Unit/pinaa/'+res_mobile+'/cookie always working.png'),
                 fullpage: true,
                 waitUntil :'domcontentloaded',
               })
@@ -277,9 +278,9 @@ describe('Unit register',() => {
         );
         
         await init.src_height().then(async (value)=>{
-            await page.setViewport({width: width,height : value})
+            await page.setViewport({width: width_mobile,height : value})
             await page.screenshot({
-                path: path.join(__dirname,'../../../Renders/Unit/pinaa/'+resolusi+'/get verify account.png'),
+                path: path.join(__dirname,'../../../Renders/Unit/pinaa/'+res_mobile+'/get verify account.png'),
                 fullpage: true,
                 waitUntil :'domcontentloaded',
             }) 
@@ -315,9 +316,9 @@ describe('Unit register',() => {
         await page.waitFor(2000)
 
         await init.src_height().then(async (value)=>{
-            await page.setViewport({width: width,height : value})
+            await page.setViewport({width: width_mobile,height : value})
             await page.screenshot({
-                path: path.join(__dirname,'../../../Renders/Unit/pinaa/'+resolusi+'/post verify account with checklist npwp- static.png'),
+                path: path.join(__dirname,'../../../Renders/Unit/pinaa/'+res_mobile+'/post verify account with checklist npwp- static.png'),
                 fullpage: true,
                 waitUntil :'domcontentloaded',
             }) 
@@ -326,9 +327,9 @@ describe('Unit register',() => {
         await page.waitFor(2000)
 
         await init.src_height().then(async (value)=>{
-            await page.setViewport({width: width,height : value})
+            await page.setViewport({width: width_mobile,height : value})
             await page.screenshot({
-                path: path.join(__dirname,'../../../Renders/Unit/pinaa/'+resolusi+'/post verify account with checklist npwp - successfully.png'),
+                path: path.join(__dirname,'../../../Renders/Unit/pinaa/'+res_mobile+'/post verify account with checklist npwp - successfully.png'),
                 fullpage: true,
                 waitUntil :'domcontentloaded',
             }) 
@@ -336,5 +337,9 @@ describe('Unit register',() => {
         pageTitle = await page.title();
         await expect(pageTitle).toMatch('PINA')
       },90000)
- 
+
+      
+
+
+
 })

diff --git a/test/initialize.js b/test/initialize.js
@@ -40,13 +40,13 @@ module.exports = {
     fileChooser : this.fileChooser,
 
     no : no = 0,
-    width: width = 375,
-    height : height = 812,
+    width_mobile: width_mobile = 375,
+    height_mobile : height_mobile = 812,
     scrollHeight : this.scrollHeight,
     innerHeight : this.innerHeight,
     clientHeight : this.clientHeight,
     value : this.value,
-    resolusi: resolusi = 'Mobile',
+    res_mobile: res_mobile = 'Mobile',
     useragent: useragent ="Mozilla/5.0 (Linux; Android 7.0; SM-G930V Build/NRD90M) AppleWebKit/537.36 (KHTML, like Gecko) Chrome/59.0.3071.125 Mobile Safari/537.36",
     headless : headless = true,
     src_height : async function () {
